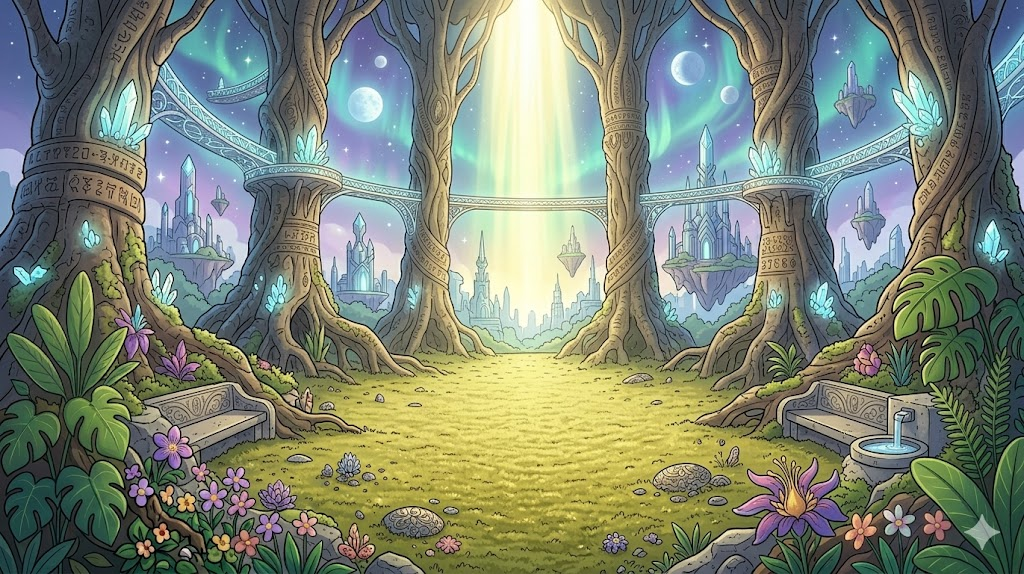
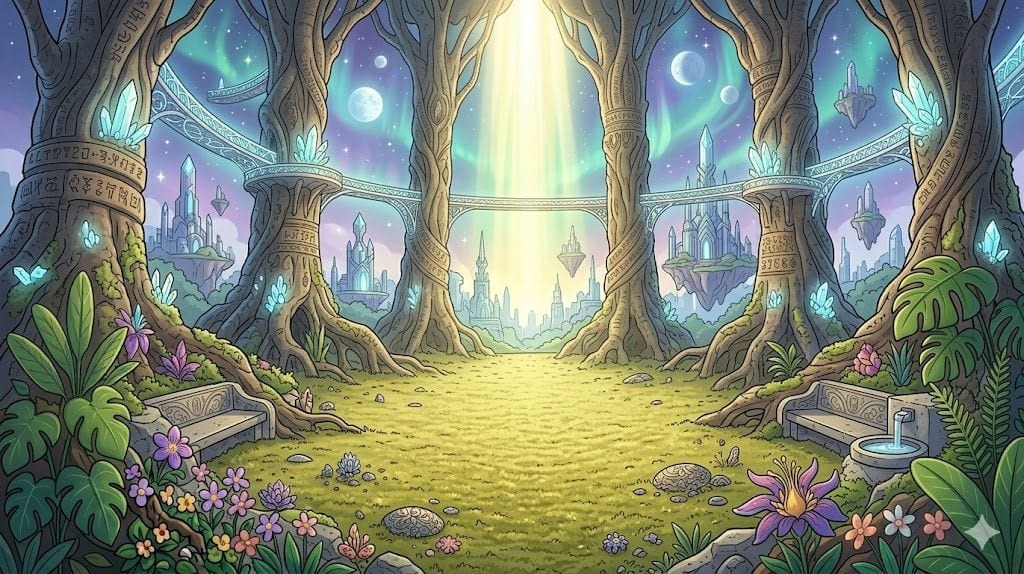
Habitat page: scroll fix, locked state, smaller images + thumbs
Habitat page:
- Removed the fixed h-[calc(100vh-64px)] constraint that was trapping
  content in one viewport — the page now flows naturally and the
  browser scrolls when the sidebar or pets grid runs past the fold.
- Locked habitats are greyscaled at ~60% opacity with a padlock icon
  overlaid. Jungle unlocks at 200 pts; the rest stay locked for now
  (easy to expand via isHabitatUnlocked).
- Fetches total points from /api/exam on load to decide unlock state.
- Teal positioning marker moved down to top:55% and trimmed to
  height:25% per feedback.

Asset pipeline:
- The original landscapes were 238KB–9MB each. Shrunk in-place to 1600
  max width at sensible encoder settings:
    jungle  7882 → 503 KB (png)
    fantasy  238 → 164 KB (jpeg)
    garden  8969 → 737 KB (png)
    hdb      157 → 111 KB (jpeg)
- Generated 400-wide webp thumbnails (~19-29 KB each) for the sidebar
  cards and the unlock popup — referenced via a new `thumb` field on
  each Habitat record.

StudentDashboard:
- FIRST_HABITAT.image now points at the 19KB jungle thumb so the
  unlock popup loads instantly.

diff --git a/src/app/habitats/[userId]/page.tsx b/src/app/habitats/[userId]/page.tsx
@@ -7,13 +7,16 @@ type Habitat = {
   id: string;
   name: string;
   image: string;
+  thumb: string;
   pets: Array<{ id: string; name: string; video: string }>;
 };
 
 // All four habitats and their pet rosters. HDB has no pets yet — placeholder.
 const HABITATS: Habitat[] = [
   {
-    id: "jungle", name: "Jungle", image: "/avatars/landscape_jungle.png",
+    id: "jungle", name: "Jungle",
+    image: "/avatars/landscape_jungle.png",
+    thumb: "/avatars/landscape_jungle_thumb.webp",
     pets: [
       { id: "bunny",      name: "Bunny",       video: "/avatars/bunny1.mp4" },
       { id: "tiger",      name: "Tiger",       video: "/avatars/tiger1.mp4" },
@@ -23,7 +26,9 @@ const HABITATS: Habitat[] = [
     ],
   },
   {
-    id: "fantasy", name: "Fantasy", image: "/avatars/landscape_fantasy.jpeg",
+    id: "fantasy", name: "Fantasy",
+    image: "/avatars/landscape_fantasy.jpeg",
+    thumb: "/avatars/landscape_fantasy_thumb.webp",
     pets: [
       { id: "uni",    name: "Unicorn", video: "/avatars/uni1.mp4" },
       { id: "dragon", name: "Dragon",  video: "/avatars/dragon1.mp4" },
@@ -31,14 +36,18 @@ const HABITATS: Habitat[] = [
     ],
   },
   {
-    id: "garden", name: "Garden", image: "/avatars/landscape_garden.png",
+    id: "garden", name: "Garden",
+    image: "/avatars/landscape_garden.png",
+    thumb: "/avatars/landscape_garden_thumb.webp",
     pets: [
       { id: "otter",   name: "Otter",   video: "/avatars/otter1.mp4" },
       { id: "merlion", name: "Merlion", video: "/avatars/merlion1.mp4" },
     ],
   },
   {
-    id: "hdb", name: "HDB", image: "/avatars/landscape_hdb.jpeg",
+    id: "hdb", name: "HDB",
+    image: "/avatars/landscape_hdb.jpeg",
+    thumb: "/avatars/landscape_hdb_thumb.webp",
     pets: [],
   },
 ];
@@ -48,6 +57,26 @@ export default function HabitatsPage({ params }: { params: Promise<{ userId: str
   const router = useRouter();
   const [selectedId, setSelectedId] = useState<string>("jungle");
   const [isPortraitMobile, setIsPortraitMobile] = useState(false);
+  const [totalPoints, setTotalPoints] = useState(0);
+
+  // Compute total points so we can lock habitats the student hasn't earned yet.
+  useEffect(() => {
+    fetch(`/api/exam?userId=${userId}`)
+      .then(r => r.json())
+      .then(d => {
+        const pts = (d.papers ?? [])
+          .filter((p: { completedAt?: string | null }) => p.completedAt)
+          .reduce((s: number, p: { score?: number | null }) => s + (p.score ?? 0), 0);
+        setTotalPoints(pts);
+      })
+      .catch(() => {});
+  }, [userId]);
+
+  // Unlock rules — easy to expand. For now only Jungle unlocks at 200 pts.
+  const isHabitatUnlocked = (id: string) => {
+    if (id === "jungle") return totalPoints >= 200;
+    return false;
+  };
 
   // Detect portrait-mobile so we can prompt to rotate — the layout needs
   // horizontal space (landscape + sidebar) to breathe.
@@ -93,23 +122,29 @@ export default function HabitatsPage({ params }: { params: Promise<{ userId: str
         <div className="w-10" />
       </header>
 
-      <div className="flex gap-4 p-4 md:p-6 h-[calc(100vh-64px)]">
-        {/* Left sidebar — collectible habitats */}
-        <aside className="w-[140px] md:w-[200px] shrink-0 overflow-y-auto space-y-3">
+      <div className="flex gap-4 p-4 md:p-6">
+        {/* Left sidebar — collectible habitats. Locked ones are greyed out. */}
+        <aside className="w-[140px] md:w-[200px] shrink-0 space-y-3">
           <p className="text-[10px] md:text-xs font-extrabold uppercase tracking-wider text-[#43474f] px-1">Habitats</p>
           {HABITATS.map(h => {
             const isActive = h.id === selectedId;
+            const unlocked = isHabitatUnlocked(h.id);
             return (
               <button
                 key={h.id}
                 onClick={() => setSelectedId(h.id)}
                 className={`w-full rounded-2xl overflow-hidden border-2 transition-all text-left ${
                   isActive ? "border-[#006c49] shadow-lg" : "border-transparent hover:border-[#c3c6d1]"
-                }`}
+                } ${unlocked ? "" : "grayscale opacity-60"}`}
               >
                 <div className="relative">
                   {/* eslint-disable-next-line @next/next/no-img-element */}
-                  <img src={h.image} alt={h.name} className="w-full aspect-[16/10] object-cover" />
+                  <img src={h.thumb} alt={h.name} className="w-full aspect-[16/10] object-cover" />
+                  {!unlocked && (
+                    <div className="absolute inset-0 flex items-center justify-center bg-black/25">
+                      <span className="material-symbols-outlined text-white text-2xl" style={{ fontVariationSettings: "'FILL' 1" }}>lock</span>
+                    </div>
+                  )}
                   <div className="absolute bottom-0 inset-x-0 bg-gradient-to-t from-black/70 to-transparent px-2 py-1">
                     <p className="text-xs md:text-sm font-bold text-white">{h.name}</p>
                   </div>
@@ -119,26 +154,26 @@ export default function HabitatsPage({ params }: { params: Promise<{ userId: str
           })}
         </aside>
 
-        {/* Right: selected habitat image + pets */}
-        <main className="flex-1 min-w-0 flex flex-col gap-3 overflow-hidden">
-          <div className="relative rounded-3xl overflow-hidden border border-[#e5eeff] bg-white shrink-0">
+        {/* Right: selected habitat image + pets. Normal page flow → scrolls. */}
+        <main className="flex-1 min-w-0 flex flex-col gap-3">
+          <div className="relative rounded-3xl overflow-hidden border border-[#e5eeff] bg-white">
             {/* eslint-disable-next-line @next/next/no-img-element */}
             <img src={selected.image} alt={selected.name} className="w-full aspect-[16/9] object-cover" />
-            {/* Positioning marker — teal overlay roughly 75% × 30%, centred. */}
+            {/* Positioning marker — teal overlay 75% × 25%, lower third. */}
             <div
               className="absolute bg-teal-400/50 rounded-xl pointer-events-none"
               style={{
-                left: "12.5%", top: "35%", width: "75%", height: "30%",
+                left: "12.5%", top: "55%", width: "75%", height: "25%",
               }}
             />
           </div>
 
-          <div className="flex-1 min-h-0 overflow-y-auto">
+          <div>
             <p className="text-xs font-extrabold uppercase tracking-wider text-[#43474f] mb-2">Pets that live in {selected.name}</p>
             {selected.pets.length === 0 ? (
               <p className="text-sm text-[#43474f] italic">No pets for this habitat yet.</p>
             ) : (
-              <div className="grid grid-cols-3 md:grid-cols-5 gap-3">
+              <div className="grid grid-cols-3 md:grid-cols-5 gap-3 pb-6">
                 {selected.pets.map(pet => (
                   <div
                     key={pet.id}

diff --git a/src/app/home/[userId]/StudentDashboard.tsx b/src/app/home/[userId]/StudentDashboard.tsx
@@ -10,7 +10,7 @@ const POINTS_PER_LEVEL = 100;
 
 // Habitats & pets — unlocks at 200 points. First habitat awarded: Jungle.
 const HABITAT_UNLOCK_POINTS = 200;
-const FIRST_HABITAT = { id: "jungle", name: "Jungle", image: "/avatars/landscape_jungle.png" };
+const FIRST_HABITAT = { id: "jungle", name: "Jungle", image: "/avatars/landscape_jungle_thumb.webp" };
 
 // Soft "power-up" for each point bubble landing in the XP bar.
 // Tries /sounds/point.mp3 first (if present) for a recognisable coin-pickup
